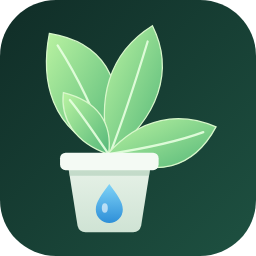
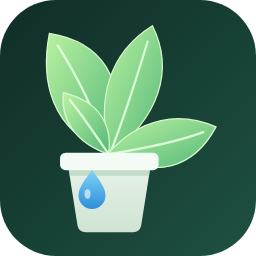
docs: move the emblem's drop to the top left of the pot
Claude-Session: https://claude.ai/code/session_013uZs62LriKPCejSMFFtfdA

Changed region(s): [[0.2812, 0.6562, 0.5, 0.875]]

diff --git a/custom_components/plant_manager/www/plant-manager-card.js b/custom_components/plant_manager/www/plant-manager-card.js
@@ -139,7 +139,7 @@ const plantManagerLanguage = (hass) => hass?.locale?.language || hass?.language;
 const plantManagerNumber = (value, T) => Number(value).toLocaleString(T.locale, { maximumFractionDigits: 1 });
 
 // The Plant Manager emblem, generated from docs/brand/plant-manager-icon.svg.
-const PLANT_MANAGER_EMBLEM = '<svg viewBox="0 0 256 256" aria-hidden="true"><defs><linearGradient id="pm-bg" x1="0" y1="0" x2="1" y2="1"><stop offset="0" stop-color="#102d27"/><stop offset="1" stop-color="#1e5141"/></linearGradient><linearGradient id="pm-pot" x1="0" y1="0" x2="0" y2="1"><stop offset="0" stop-color="#e7f2e8"/><stop offset="1" stop-color="#cfe3d4"/></linearGradient><linearGradient id="pm-drop" x1="0" y1="0" x2="0" y2="1"><stop offset="0" stop-color="#7fd3f7"/><stop offset="1" stop-color="#2e8fd8"/></linearGradient><linearGradient id="pm-leaf" x1="0" y1="0" x2="1" y2="1"><stop offset="0" stop-color="#b9f2a1"/><stop offset="1" stop-color="#55b879"/></linearGradient></defs><rect id="pm-tile" width="256" height="256" rx="56" fill="url(#pm-bg)"/><g id="pm-plant" transform="translate(20.3 -15.9) scale(.795)" fill="url(#pm-leaf)" stroke="#d8f7cb" stroke-width="2"><g transform="translate(111 214) scale(.8) translate(-111 -214)"><path d="M112 212C18 176 4 96 18 24c74 12 132 65 94 188Z"/><path d="M112.0 212.0C87.9 143.6 57.9 84.9 30.9 43.0" fill="none" stroke="#e7ffe0" stroke-width="3.5" stroke-linecap="round" opacity=".9"/><path d="M113 214C91 128 111 55 180 12c35 70 10 145-67 202Z"/><path d="M113.0 214.0C136.7 152.5 156.6 89.2 172.5 36.7" fill="none" stroke="#e7ffe0" stroke-width="3.5" stroke-linecap="round" opacity=".9"/><path d="M109 214C162 154 224 147 280 171c-35 65-94 83-171 43Z"/><path d="M109.0 214.0C164.9 205.4 217.5 195.0 260.0 179.2" fill="none" stroke="#e7ffe0" stroke-width="3.5" stroke-linecap="round" opacity=".9"/><path d="M111 214C58 196 35 158 40 117c53 13 78 47 71 97Z"/><path d="M111.0 214.0C91.2 184.8 70.7 154.0 50.1 128.8" fill="none" stroke="#e7ffe0" stroke-width="3.5" stroke-linecap="round" opacity=".9"/></g><g stroke="none"><path d="M60 228H164L152 304Q150 312 142 312H82Q74 312 72 304Z" fill="url(#pm-pot)"/><path d="M61 233H163L162 241H62Z" fill="#a9cbb2" opacity=".55"/><rect x="50" y="212" width="124" height="22" rx="7" fill="#f4faf4"/></g></g><g id="pm-drop-mark"><g transform="translate(109.3 204)"><path d="M0-20C7.5-9.5 13.5-2.5 13.5 5.5A13.5 13.5 0 0 1-13.5 5.5C-13.5-2.5-7.5-9.5 0-20Z" fill="url(#pm-drop)"/><ellipse cx="-4.5" cy="4" rx="3" ry="4.8" fill="#ffffff" opacity=".6"/></g></g></svg>';
+const PLANT_MANAGER_EMBLEM = '<svg viewBox="0 0 256 256" aria-hidden="true"><defs><linearGradient id="pm-bg" x1="0" y1="0" x2="1" y2="1"><stop offset="0" stop-color="#102d27"/><stop offset="1" stop-color="#1e5141"/></linearGradient><linearGradient id="pm-pot" x1="0" y1="0" x2="0" y2="1"><stop offset="0" stop-color="#e7f2e8"/><stop offset="1" stop-color="#cfe3d4"/></linearGradient><linearGradient id="pm-drop" x1="0" y1="0" x2="0" y2="1"><stop offset="0" stop-color="#7fd3f7"/><stop offset="1" stop-color="#2e8fd8"/></linearGradient><linearGradient id="pm-leaf" x1="0" y1="0" x2="1" y2="1"><stop offset="0" stop-color="#b9f2a1"/><stop offset="1" stop-color="#55b879"/></linearGradient></defs><rect id="pm-tile" width="256" height="256" rx="56" fill="url(#pm-bg)"/><g id="pm-plant" transform="translate(20.3 -15.9) scale(.795)" fill="url(#pm-leaf)" stroke="#d8f7cb" stroke-width="2"><g transform="translate(111 214) scale(.8) translate(-111 -214)"><path d="M112 212C18 176 4 96 18 24c74 12 132 65 94 188Z"/><path d="M112.0 212.0C87.9 143.6 57.9 84.9 30.9 43.0" fill="none" stroke="#e7ffe0" stroke-width="3.5" stroke-linecap="round" opacity=".9"/><path d="M113 214C91 128 111 55 180 12c35 70 10 145-67 202Z"/><path d="M113.0 214.0C136.7 152.5 156.6 89.2 172.5 36.7" fill="none" stroke="#e7ffe0" stroke-width="3.5" stroke-linecap="round" opacity=".9"/><path d="M109 214C162 154 224 147 280 171c-35 65-94 83-171 43Z"/><path d="M109.0 214.0C164.9 205.4 217.5 195.0 260.0 179.2" fill="none" stroke="#e7ffe0" stroke-width="3.5" stroke-linecap="round" opacity=".9"/><path d="M111 214C58 196 35 158 40 117c53 13 78 47 71 97Z"/><path d="M111.0 214.0C91.2 184.8 70.7 154.0 50.1 128.8" fill="none" stroke="#e7ffe0" stroke-width="3.5" stroke-linecap="round" opacity=".9"/></g><g stroke="none"><path d="M60 228H164L152 304Q150 312 142 312H82Q74 312 72 304Z" fill="url(#pm-pot)"/><path d="M61 233H163L162 241H62Z" fill="#a9cbb2" opacity=".55"/><rect x="50" y="212" width="124" height="22" rx="7" fill="#f4faf4"/></g></g><g id="pm-drop-mark"><g transform="translate(92 190)"><path d="M0-20C7.5-9.5 13.5-2.5 13.5 5.5A13.5 13.5 0 0 1-13.5 5.5C-13.5-2.5-7.5-9.5 0-20Z" fill="url(#pm-drop)"/><ellipse cx="-4.5" cy="4" rx="3" ry="4.8" fill="#ffffff" opacity=".6"/></g></g></svg>';
 
 const PLANT_MANAGER_STATUSES = {
   needs_water: { tone: "dry", icon: "mdi:water-alert-outline", order: 0 },

diff --git a/www/plant-manager-card.js b/www/plant-manager-card.js
@@ -139,7 +139,7 @@ const plantManagerLanguage = (hass) => hass?.locale?.language || hass?.language;
 const plantManagerNumber = (value, T) => Number(value).toLocaleString(T.locale, { maximumFractionDigits: 1 });
 
 // The Plant Manager emblem, generated from docs/brand/plant-manager-icon.svg.
-const PLANT_MANAGER_EMBLEM = '<svg viewBox="0 0 256 256" aria-hidden="true"><defs><linearGradient id="pm-bg" x1="0" y1="0" x2="1" y2="1"><stop offset="0" stop-color="#102d27"/><stop offset="1" stop-color="#1e5141"/></linearGradient><linearGradient id="pm-pot" x1="0" y1="0" x2="0" y2="1"><stop offset="0" stop-color="#e7f2e8"/><stop offset="1" stop-color="#cfe3d4"/></linearGradient><linearGradient id="pm-drop" x1="0" y1="0" x2="0" y2="1"><stop offset="0" stop-color="#7fd3f7"/><stop offset="1" stop-color="#2e8fd8"/></linearGradient><linearGradient id="pm-leaf" x1="0" y1="0" x2="1" y2="1"><stop offset="0" stop-color="#b9f2a1"/><stop offset="1" stop-color="#55b879"/></linearGradient></defs><rect id="pm-tile" width="256" height="256" rx="56" fill="url(#pm-bg)"/><g id="pm-plant" transform="translate(20.3 -15.9) scale(.795)" fill="url(#pm-leaf)" stroke="#d8f7cb" stroke-width="2"><g transform="translate(111 214) scale(.8) translate(-111 -214)"><path d="M112 212C18 176 4 96 18 24c74 12 132 65 94 188Z"/><path d="M112.0 212.0C87.9 143.6 57.9 84.9 30.9 43.0" fill="none" stroke="#e7ffe0" stroke-width="3.5" stroke-linecap="round" opacity=".9"/><path d="M113 214C91 128 111 55 180 12c35 70 10 145-67 202Z"/><path d="M113.0 214.0C136.7 152.5 156.6 89.2 172.5 36.7" fill="none" stroke="#e7ffe0" stroke-width="3.5" stroke-linecap="round" opacity=".9"/><path d="M109 214C162 154 224 147 280 171c-35 65-94 83-171 43Z"/><path d="M109.0 214.0C164.9 205.4 217.5 195.0 260.0 179.2" fill="none" stroke="#e7ffe0" stroke-width="3.5" stroke-linecap="round" opacity=".9"/><path d="M111 214C58 196 35 158 40 117c53 13 78 47 71 97Z"/><path d="M111.0 214.0C91.2 184.8 70.7 154.0 50.1 128.8" fill="none" stroke="#e7ffe0" stroke-width="3.5" stroke-linecap="round" opacity=".9"/></g><g stroke="none"><path d="M60 228H164L152 304Q150 312 142 312H82Q74 312 72 304Z" fill="url(#pm-pot)"/><path d="M61 233H163L162 241H62Z" fill="#a9cbb2" opacity=".55"/><rect x="50" y="212" width="124" height="22" rx="7" fill="#f4faf4"/></g></g><g id="pm-drop-mark"><g transform="translate(109.3 204)"><path d="M0-20C7.5-9.5 13.5-2.5 13.5 5.5A13.5 13.5 0 0 1-13.5 5.5C-13.5-2.5-7.5-9.5 0-20Z" fill="url(#pm-drop)"/><ellipse cx="-4.5" cy="4" rx="3" ry="4.8" fill="#ffffff" opacity=".6"/></g></g></svg>';
+const PLANT_MANAGER_EMBLEM = '<svg viewBox="0 0 256 256" aria-hidden="true"><defs><linearGradient id="pm-bg" x1="0" y1="0" x2="1" y2="1"><stop offset="0" stop-color="#102d27"/><stop offset="1" stop-color="#1e5141"/></linearGradient><linearGradient id="pm-pot" x1="0" y1="0" x2="0" y2="1"><stop offset="0" stop-color="#e7f2e8"/><stop offset="1" stop-color="#cfe3d4"/></linearGradient><linearGradient id="pm-drop" x1="0" y1="0" x2="0" y2="1"><stop offset="0" stop-color="#7fd3f7"/><stop offset="1" stop-color="#2e8fd8"/></linearGradient><linearGradient id="pm-leaf" x1="0" y1="0" x2="1" y2="1"><stop offset="0" stop-color="#b9f2a1"/><stop offset="1" stop-color="#55b879"/></linearGradient></defs><rect id="pm-tile" width="256" height="256" rx="56" fill="url(#pm-bg)"/><g id="pm-plant" transform="translate(20.3 -15.9) scale(.795)" fill="url(#pm-leaf)" stroke="#d8f7cb" stroke-width="2"><g transform="translate(111 214) scale(.8) translate(-111 -214)"><path d="M112 212C18 176 4 96 18 24c74 12 132 65 94 188Z"/><path d="M112.0 212.0C87.9 143.6 57.9 84.9 30.9 43.0" fill="none" stroke="#e7ffe0" stroke-width="3.5" stroke-linecap="round" opacity=".9"/><path d="M113 214C91 128 111 55 180 12c35 70 10 145-67 202Z"/><path d="M113.0 214.0C136.7 152.5 156.6 89.2 172.5 36.7" fill="none" stroke="#e7ffe0" stroke-width="3.5" stroke-linecap="round" opacity=".9"/><path d="M109 214C162 154 224 147 280 171c-35 65-94 83-171 43Z"/><path d="M109.0 214.0C164.9 205.4 217.5 195.0 260.0 179.2" fill="none" stroke="#e7ffe0" stroke-width="3.5" stroke-linecap="round" opacity=".9"/><path d="M111 214C58 196 35 158 40 117c53 13 78 47 71 97Z"/><path d="M111.0 214.0C91.2 184.8 70.7 154.0 50.1 128.8" fill="none" stroke="#e7ffe0" stroke-width="3.5" stroke-linecap="round" opacity=".9"/></g><g stroke="none"><path d="M60 228H164L152 304Q150 312 142 312H82Q74 312 72 304Z" fill="url(#pm-pot)"/><path d="M61 233H163L162 241H62Z" fill="#a9cbb2" opacity=".55"/><rect x="50" y="212" width="124" height="22" rx="7" fill="#f4faf4"/></g></g><g id="pm-drop-mark"><g transform="translate(92 190)"><path d="M0-20C7.5-9.5 13.5-2.5 13.5 5.5A13.5 13.5 0 0 1-13.5 5.5C-13.5-2.5-7.5-9.5 0-20Z" fill="url(#pm-drop)"/><ellipse cx="-4.5" cy="4" rx="3" ry="4.8" fill="#ffffff" opacity=".6"/></g></g></svg>';
 
 const PLANT_MANAGER_STATUSES = {
   needs_water: { tone: "dry", icon: "mdi:water-alert-outline", order: 0 },
